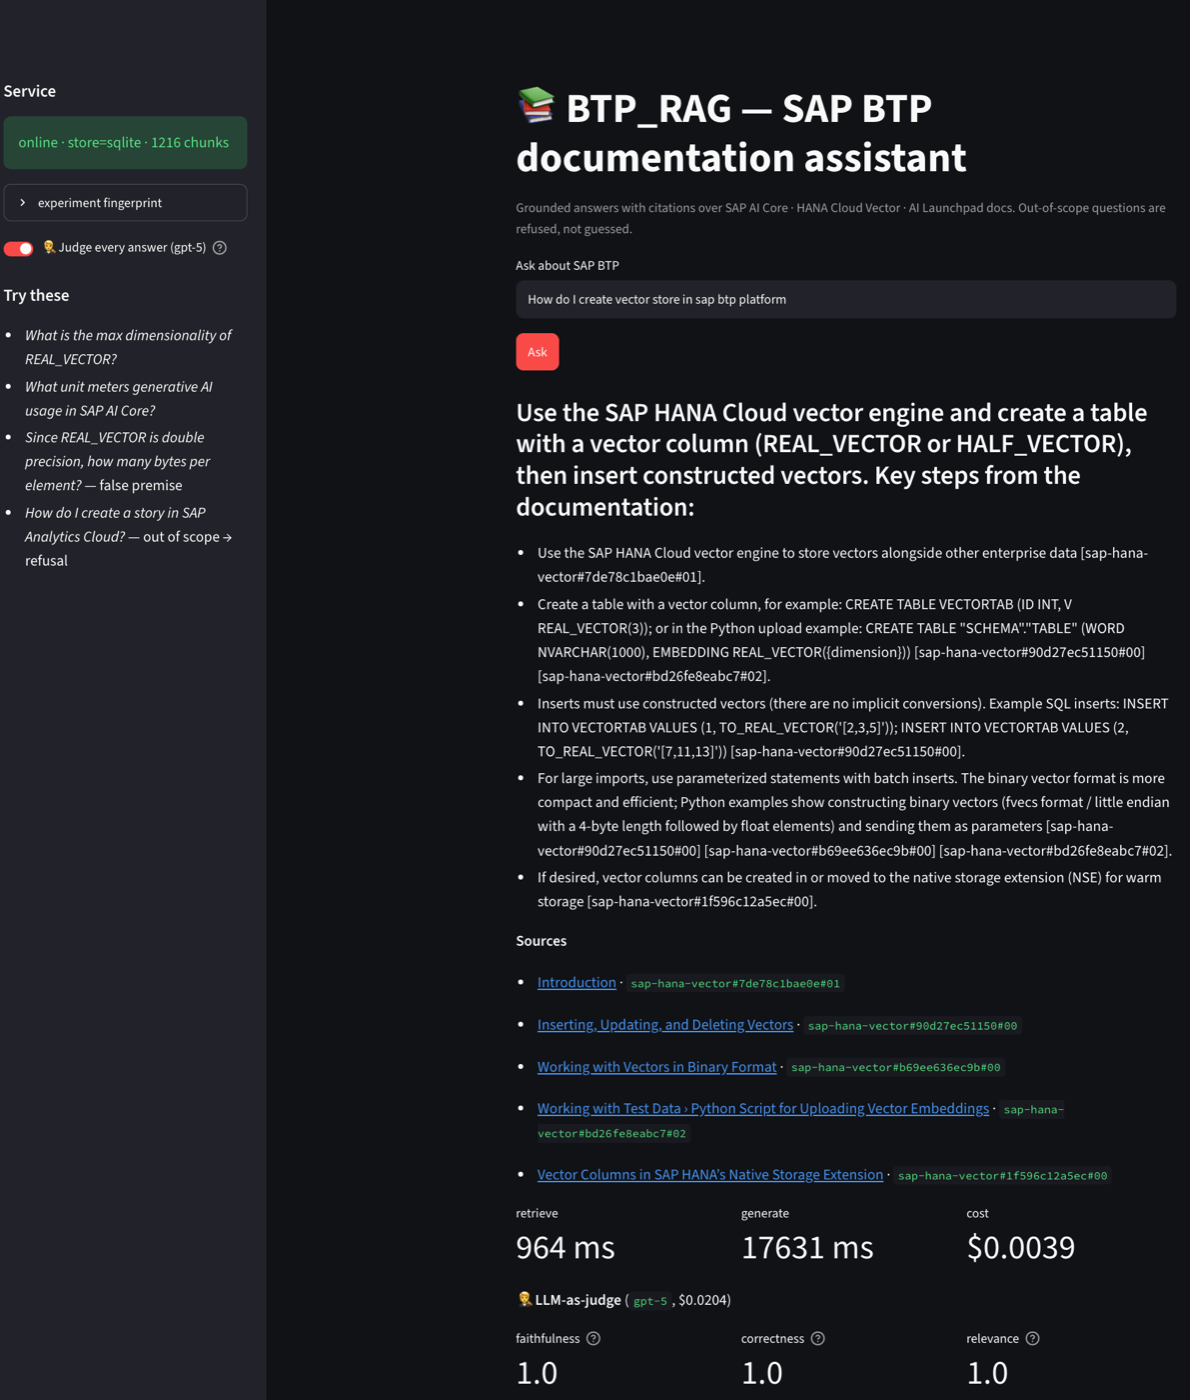
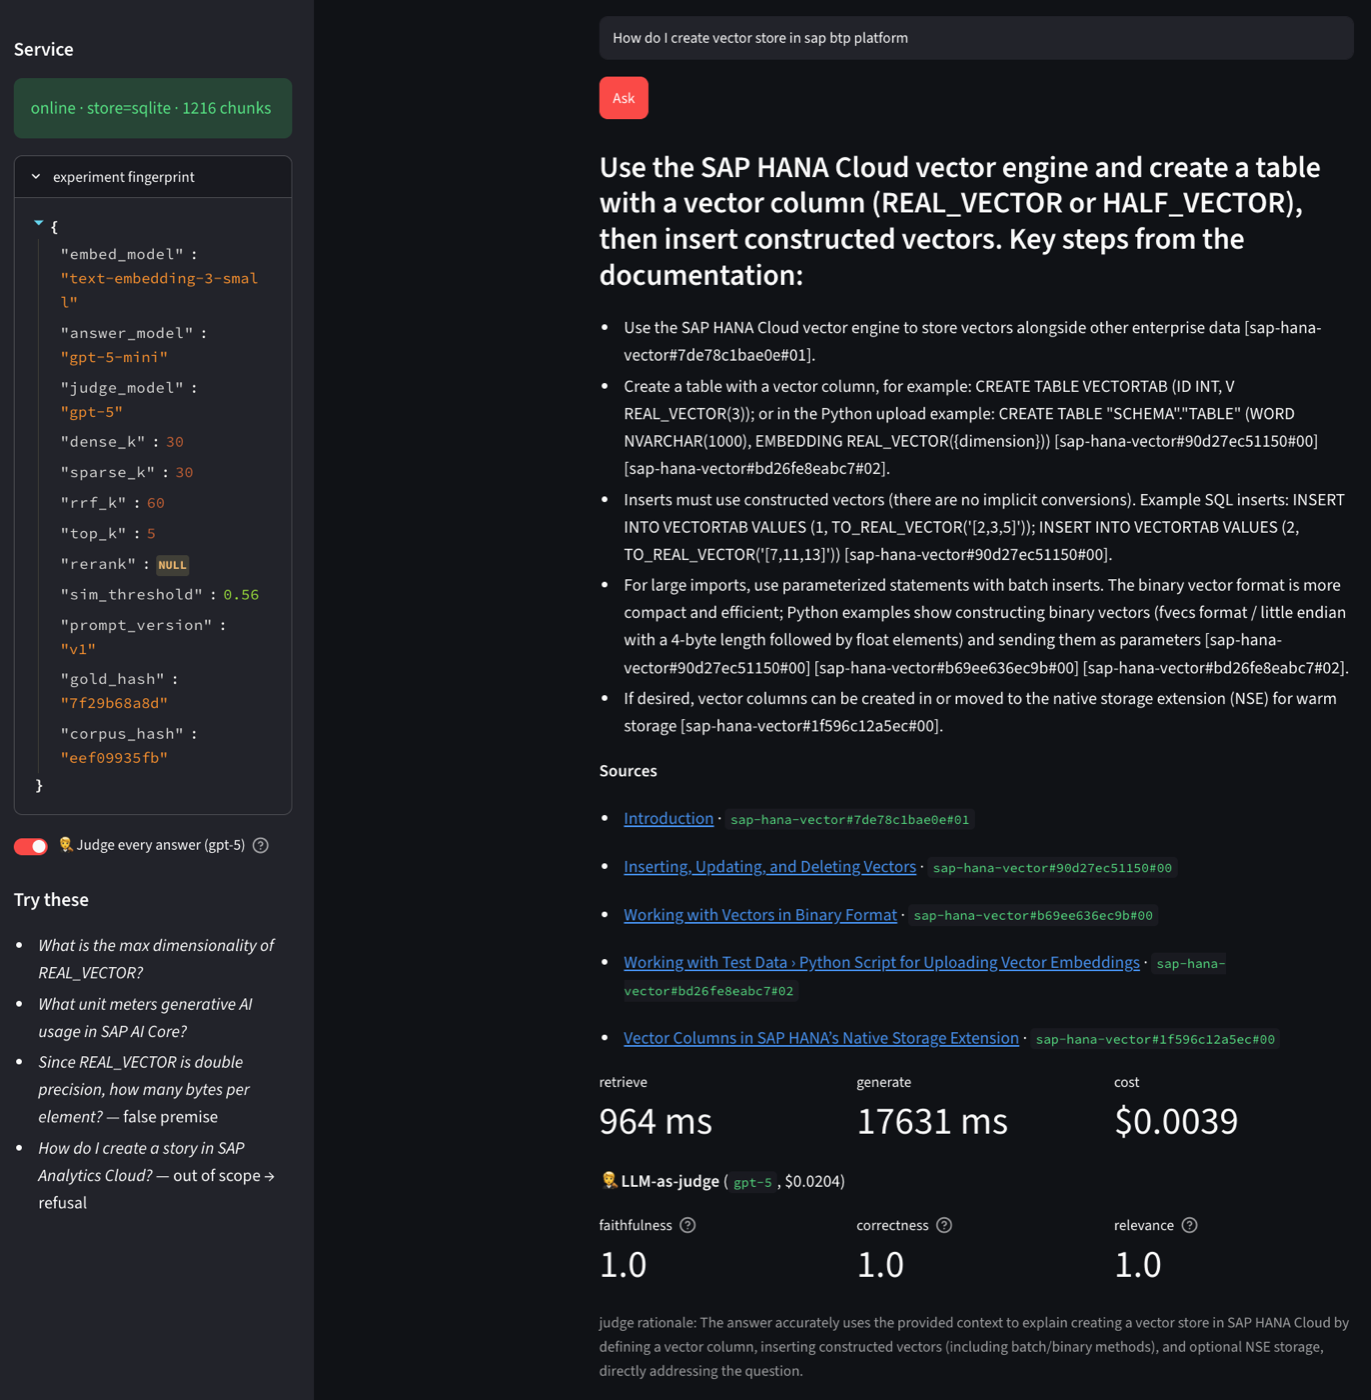
README: measured latency-vs-accuracy chart + demo screenshot with fingerprint & judge rationale

Changed region(s): [[0.4353, 0.0, 0.995, 1.0], [0.0, 0.0307, 0.2176, 0.5529], [0.0, 0.5836, 0.1866, 0.86]]

diff --git a/README.md b/README.md
@@ -22,10 +22,11 @@ A question-answering assistant over SAP BTP documentation that:
 - is **measured**: every quality claim below comes from a versioned, repeatable evaluation.
 
 **Live demo** — a real query against the running system: grounded answer, clickable
-citations into help.sap.com, per-request latency/cost, and the **gpt-5 judge auditing the
-answer live** (faithfulness / correctness / relevance):
+citations into help.sap.com, per-request latency/cost, the **experiment fingerprint**
+(sidebar — every answer attributable to an exact config), and the **gpt-5 judge auditing
+the answer live** with its rationale (faithfulness / correctness / relevance):
 
-<img src="docs/demo.png" alt="Live demo: cited answer with latency, cost and live LLM-as-judge scores" width="900">
+<img src="docs/demo.png" alt="Live demo: cited answer with experiment fingerprint, latency/cost telemetry and live LLM-as-judge scores + rationale" width="900">
 
 
 ## 2. Why RAG — measured, not assumed
@@ -59,6 +60,13 @@ out-of-scope questions from memory** — plausible, uncited, unauditable. RAG tu
 
 Every run is fingerprint-stamped (models + params + prompt + gold + corpus hashes) and
 recorded in [`eval/registry.jsonl`](eval/registry.jsonl) with immutable per-item archives.
+
+**The latency ↔ accuracy tradeoff, measured** — accuracy levers live in the milliseconds
+(retrieval side); latency lives in LLM/API calls. This is why v1.5 queues a **local
+cross-encoder reranker (≈ +30 ms)** over LLM query rewriting (≈ +1–3 s), and why the
+refusal gate short-circuits *before* the LLM:
+
+<img src="docs/latency_accuracy.svg" alt="Measured latency vs accuracy: hit-rate by retrieval depth, and per-stage latency on a log scale" width="900">
 
 Detail that matters: the judge caught one **correct-but-ungrounded** answer (q21: right facts,
 half not from the retrieved context — faithfulness 0.5, correctness 1.0). That's the metric
